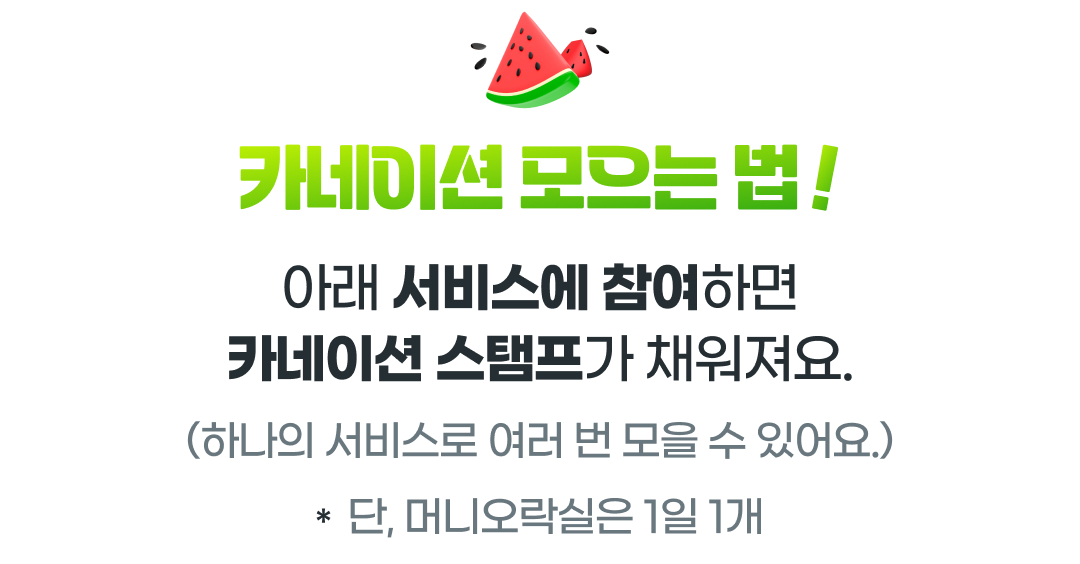
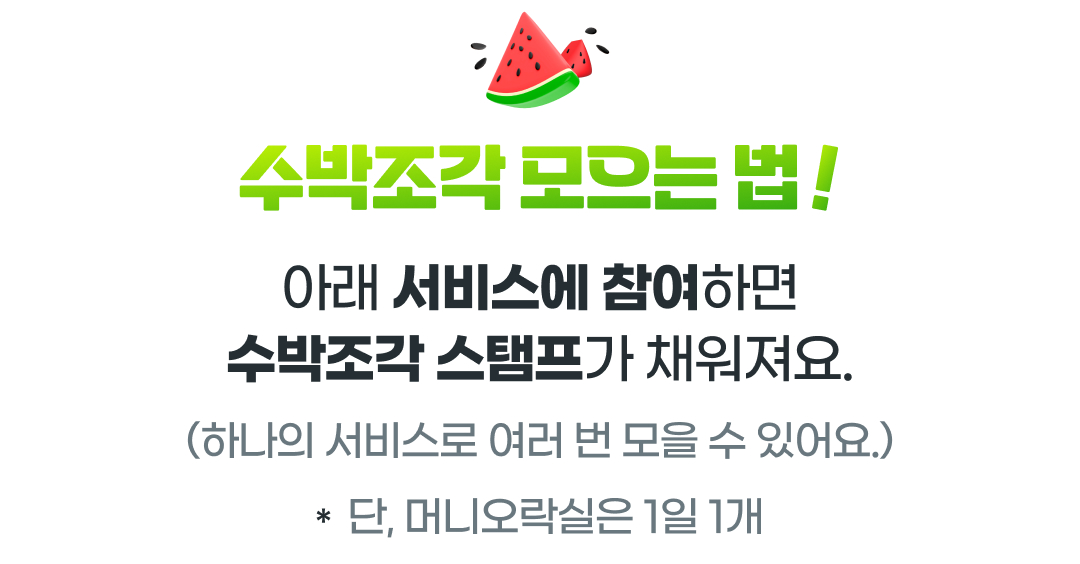
이벤트 이미지 교체

Changed region(s): [[0.2139, 0.2411, 0.4889, 0.3918], [0.2139, 0.5727, 0.3972, 0.6933]]

diff --git a/html/event_test/html/event/event.html b/html/event_test/html/event/event.html
@@ -214,8 +214,8 @@
 	.watermelon .status ul li:nth-child(3n){margin-right:0}
 	.watermelon .status ul li.on {background-image:url('../../images/event/seasonal/watermelon_on.png') !important;background-size:cover;}
 	.watermelon .status .btn_refresh {top:17vw;right:15.21vw;}
-	.watermelon .howto {height:245.74vw}
-	.watermelon .howto ul {padding-top:53.33vw;}
+	.watermelon .howto {height:246.76vw}
+	.watermelon .howto ul {padding-top:52.41vw;}
 	.watermelon .howto ul li a .score {width:12.13vw;height:9.17vw;top:3.89vw;right:4.17vw;background:url('../../images/event/seasonal/watermelon_p1.png') no-repeat top left;background-size:contain}
 	.watermelon .howto ul li a .score.sc3 {background-image:url('../../images/event/seasonal/watermelon_p3.png')} 
 	.watermelon.pop_wrap .page_footer_fix .btn_close {background-color:#13c9be}

diff --git a/html/event_test/html/event/event_1.html b/html/event_test/html/event/event_1.html
@@ -214,8 +214,8 @@
 	.watermelon .status ul li:nth-child(3n){margin-right:0}
 	.watermelon .status ul li.on {background-image:url('../../images/event/seasonal/watermelon_on.png') !important;background-size:cover;}
 	.watermelon .status .btn_refresh {top:17vw;right:15.21vw;}
-	.watermelon .howto {height:245.74vw}
-	.watermelon .howto ul {padding-top:53.33vw;}
+	.watermelon .howto {height:246.76vw}
+	.watermelon .howto ul {padding-top:52.41vw;}
 	.watermelon .howto ul li a .score {width:12.13vw;height:9.17vw;top:3.89vw;right:4.17vw;background:url('../../images/event/seasonal/watermelon_p1.png') no-repeat top left;background-size:contain}
 	.watermelon .howto ul li a .score.sc3 {background-image:url('../../images/event/seasonal/watermelon_p3.png')} 
 	.watermelon.pop_wrap .page_footer_fix .btn_close {background-color:#13c9be}

diff --git a/html/event_test/html/event/event_2.html b/html/event_test/html/event/event_2.html
@@ -214,8 +214,8 @@
 	.watermelon .status ul li:nth-child(3n){margin-right:0}
 	.watermelon .status ul li.on {background-image:url('../../images/event/seasonal/watermelon_on.png') !important;background-size:cover;}
 	.watermelon .status .btn_refresh {top:17vw;right:15.21vw;}
-	.watermelon .howto {height:245.74vw}
-	.watermelon .howto ul {padding-top:53.33vw;}
+	.watermelon .howto {height:246.76vw}
+	.watermelon .howto ul {padding-top:52.41vw;}
 	.watermelon .howto ul li a .score {width:12.13vw;height:9.17vw;top:3.89vw;right:4.17vw;background:url('../../images/event/seasonal/watermelon_p1.png') no-repeat top left;background-size:contain}
 	.watermelon .howto ul li a .score.sc3 {background-image:url('../../images/event/seasonal/watermelon_p3.png')} 
 	.watermelon.pop_wrap .page_footer_fix .btn_close {background-color:#13c9be}

diff --git a/html/event_test/html/event/event_3.html b/html/event_test/html/event/event_3.html
@@ -214,8 +214,8 @@
 	.watermelon .status ul li:nth-child(3n){margin-right:0}
 	.watermelon .status ul li.on {background-image:url('../../images/event/seasonal/watermelon_on.png') !important;background-size:cover;}
 	.watermelon .status .btn_refresh {top:17vw;right:15.21vw;}
-	.watermelon .howto {height:245.74vw}
-	.watermelon .howto ul {padding-top:53.33vw;}
+	.watermelon .howto {height:246.76vw}
+	.watermelon .howto ul {padding-top:52.41vw;}
 	.watermelon .howto ul li a .score {width:12.13vw;height:9.17vw;top:3.89vw;right:4.17vw;background:url('../../images/event/seasonal/watermelon_p1.png') no-repeat top left;background-size:contain}
 	.watermelon .howto ul li a .score.sc3 {background-image:url('../../images/event/seasonal/watermelon_p3.png')} 
 	.watermelon.pop_wrap .page_footer_fix .btn_close {background-color:#13c9be}

diff --git a/html/event_test/html/event/event_4.html b/html/event_test/html/event/event_4.html
@@ -214,8 +214,8 @@
 	.watermelon .status ul li:nth-child(3n){margin-right:0}
 	.watermelon .status ul li.on {background-image:url('../../images/event/seasonal/watermelon_on.png') !important;background-size:cover;}
 	.watermelon .status .btn_refresh {top:17vw;right:15.21vw;}
-	.watermelon .howto {height:245.74vw}
-	.watermelon .howto ul {padding-top:53.33vw;}
+	.watermelon .howto {height:246.76vw}
+	.watermelon .howto ul {padding-top:52.41vw;}
 	.watermelon .howto ul li a .score {width:12.13vw;height:9.17vw;top:3.89vw;right:4.17vw;background:url('../../images/event/seasonal/watermelon_p1.png') no-repeat top left;background-size:contain}
 	.watermelon .howto ul li a .score.sc3 {background-image:url('../../images/event/seasonal/watermelon_p3.png')} 
 	.watermelon.pop_wrap .page_footer_fix .btn_close {background-color:#13c9be}
